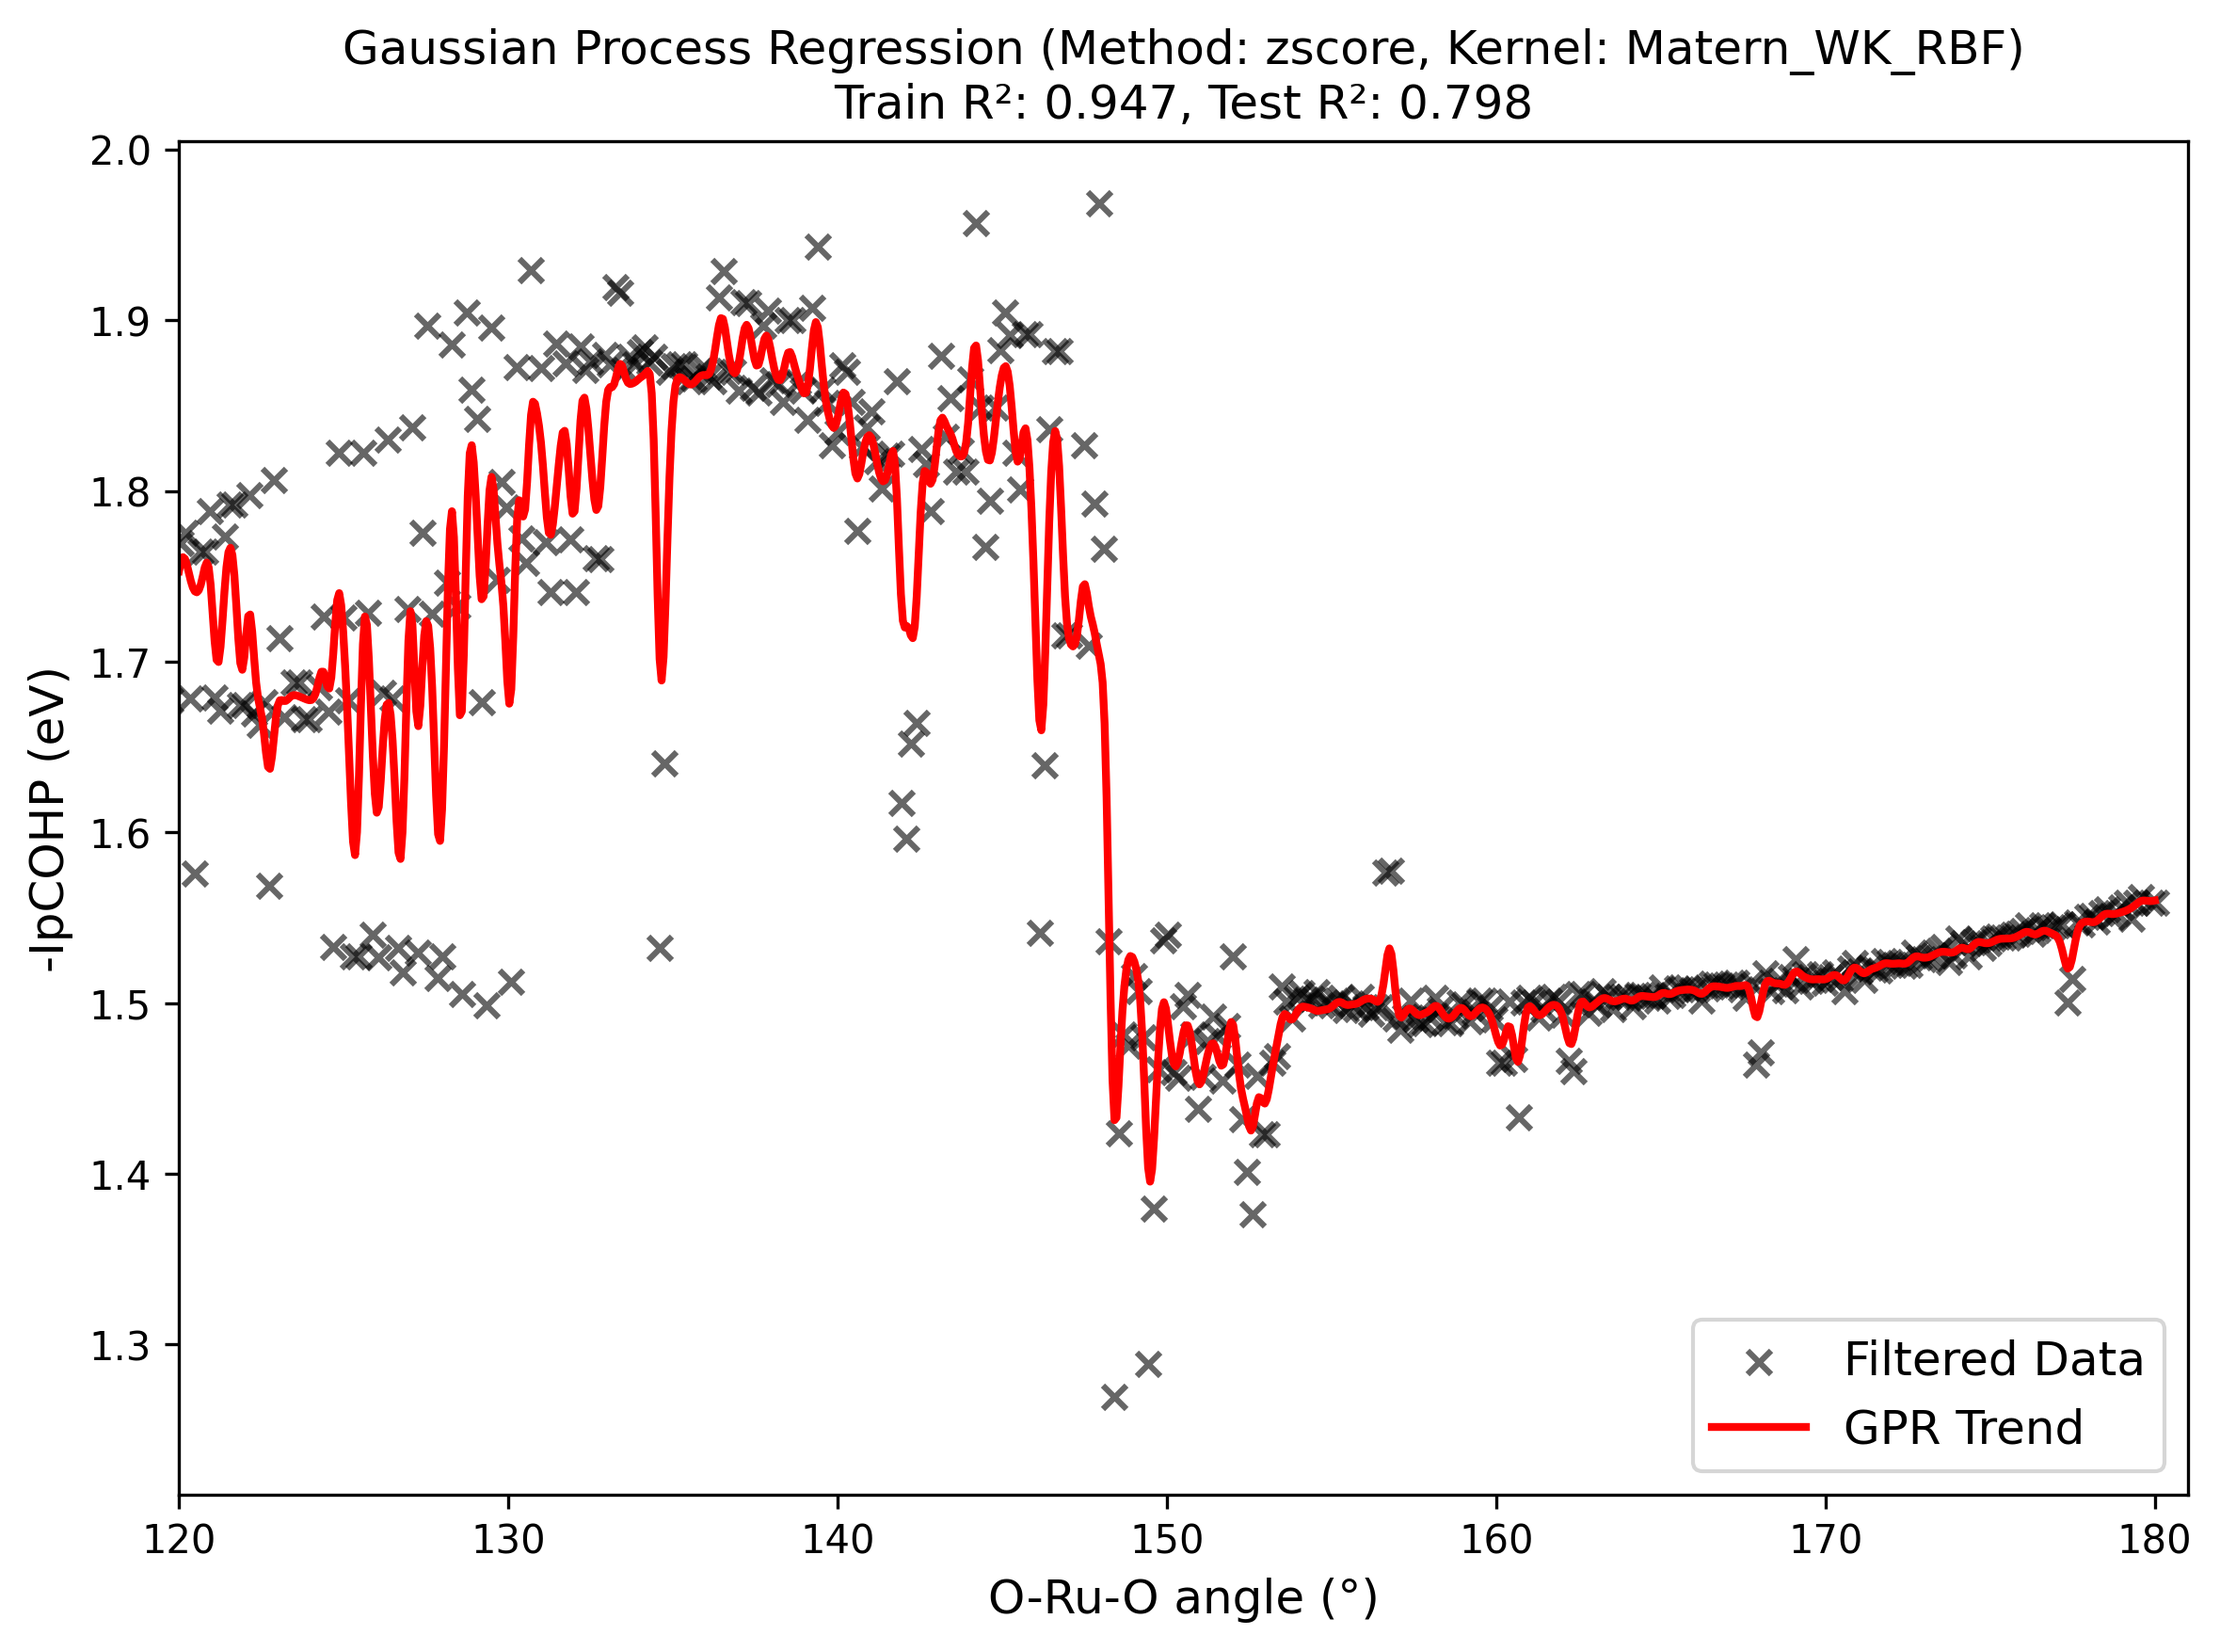
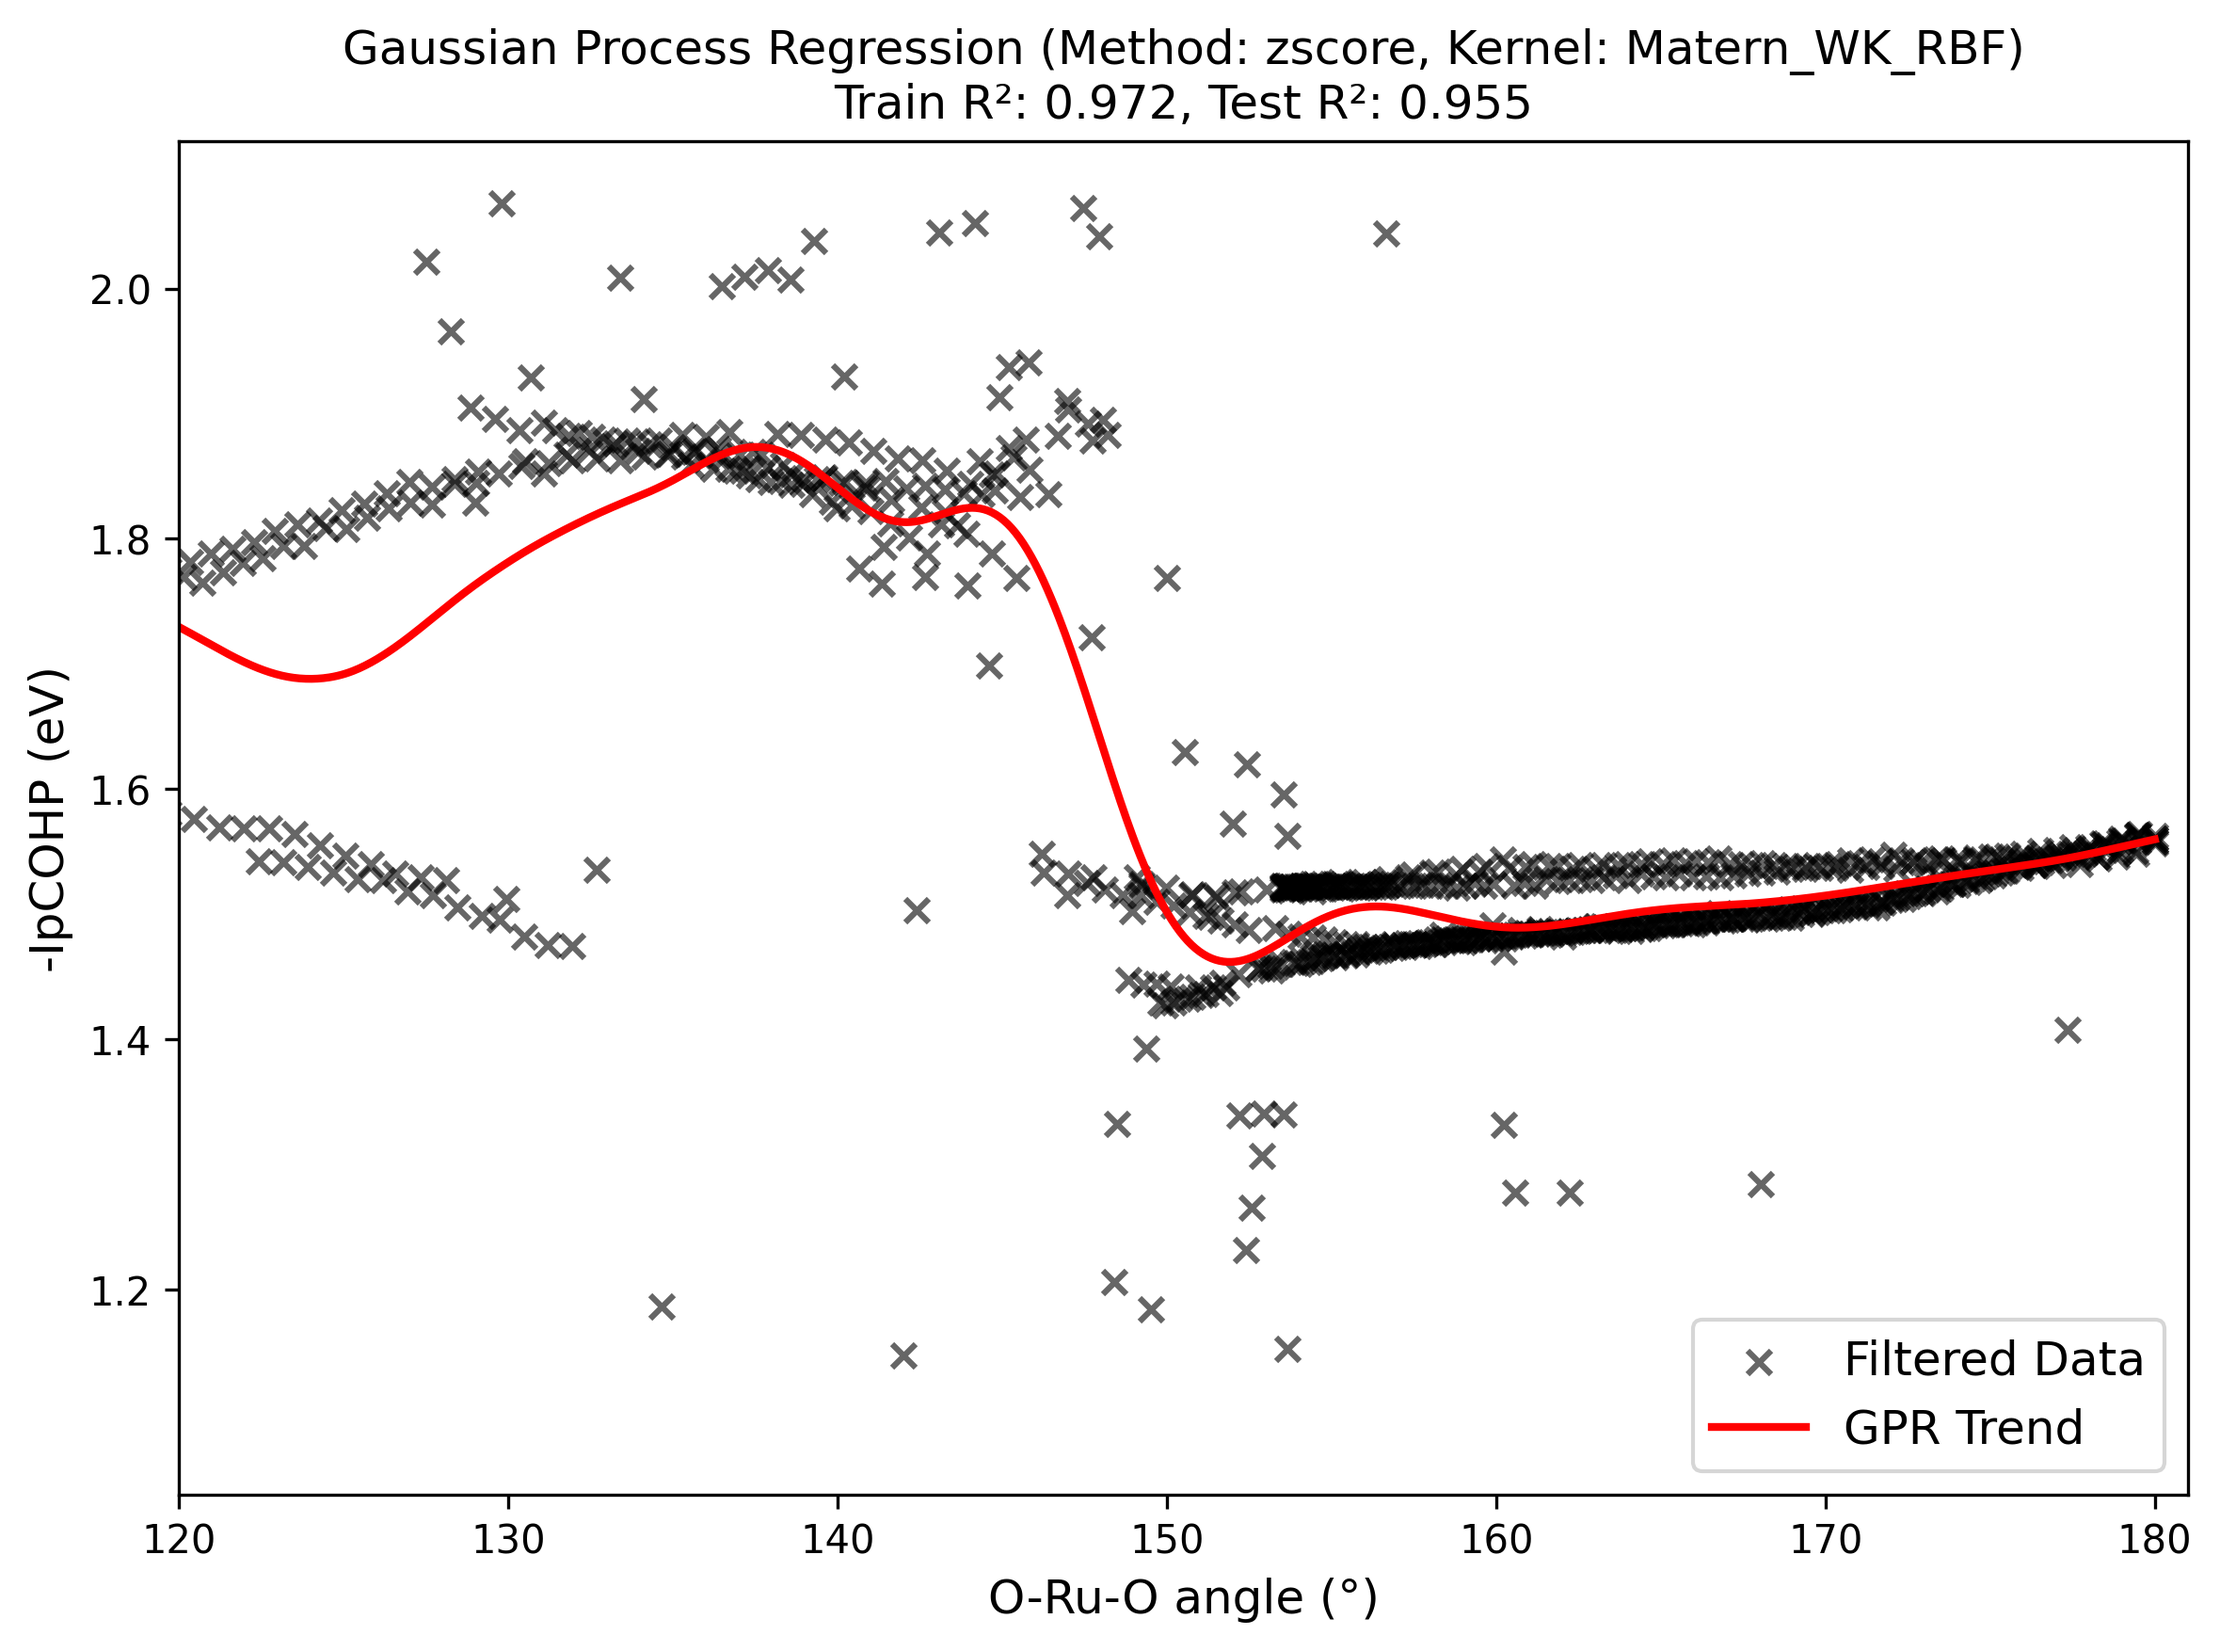
2

diff --git a/octachedral_gaussian/datafit_test/Sn/test.py b/octachedral_gaussian/datafit_test/Sn/test.py
@@ -198,6 +198,10 @@ print(f"最佳 AIC: {best_aic:.3f}, 最佳平均 R²: {best_r2:.3f}")
 # ==========================
 # 1. 使用最佳异常值处理
 X_filtered, y_filtered = remove_outliers(X, y, method=best_method)
+# 保存去除了异常值但未平滑的数据，用于最终绘图
+X_for_plot = X_filtered.copy()
+y_for_plot = y_filtered.copy()
+
 
 # --- ⭐ 2. 实现滑动窗口平滑 (新逻辑) ---
 if cfg.BINNING_ENABLED:
@@ -238,6 +242,14 @@ if cfg.BINNING_ENABLED:
     X_filtered = np.array(X_smoothed).reshape(-1, 1)
     y_filtered = np.array(y_smoothed).ravel()
     print(f"滑动窗口平滑完成。生成数据点: {len(y_filtered)} 个。")
+
+    # --- ⭐ 2.1 在平滑后再次进行异常值检测 (新步骤) ---
+    print("在平滑数据后再次进行异常值检测...")
+    points_before = len(y_filtered)
+    # 使用 z-score 方法移除平滑后的数据中的异常值
+    X_filtered, y_filtered = remove_outliers(X_filtered, y_filtered, method='zscore')
+    points_after = len(y_filtered)
+    print(f"移除了 {points_before - points_after} 个平滑后的异常点。剩余数据点: {points_after} 个。")
 # -----------------------------------------------
 
 # 3. 标准化
@@ -279,8 +291,8 @@ y_pred_original = scaler_y.inverse_transform(y_pred_scaled.reshape(-1, 1)).ravel
 plt.figure(figsize=cfg.FIG_SIZE)
 
 plt.scatter(
-    scaler_X.inverse_transform(X_scaled),
-    scaler_y.inverse_transform(y_scaled.reshape(-1, 1)),
+    X_for_plot,
+    y_for_plot,
     color='black',
     alpha=0.6,
     label='Filtered Data',
@@ -379,4 +391,3 @@ plt.legend(fontsize=cfg.FONT_SIZE_LEGEND)
 plt.tight_layout()
 save_plot("Figure_7_Residuals_Distribution")
 plt.show()
-

diff --git a/octachedral_gaussian/datafit_test/Mn/test.py b/octachedral_gaussian/datafit_test/Mn/test.py
@@ -198,6 +198,10 @@ print(f"最佳 AIC: {best_aic:.3f}, 最佳平均 R²: {best_r2:.3f}")
 # ==========================
 # 1. 使用最佳异常值处理
 X_filtered, y_filtered = remove_outliers(X, y, method=best_method)
+# 保存去除了异常值但未平滑的数据，用于最终绘图
+X_for_plot = X_filtered.copy()
+y_for_plot = y_filtered.copy()
+
 
 # --- ⭐ 2. 实现滑动窗口平滑 (新逻辑) ---
 if cfg.BINNING_ENABLED:
@@ -287,8 +291,8 @@ y_pred_original = scaler_y.inverse_transform(y_pred_scaled.reshape(-1, 1)).ravel
 plt.figure(figsize=cfg.FIG_SIZE)
 
 plt.scatter(
-    scaler_X.inverse_transform(X_scaled),
-    scaler_y.inverse_transform(y_scaled.reshape(-1, 1)),
+    X_for_plot,
+    y_for_plot,
     color='black',
     alpha=0.6,
     label='Filtered Data',

diff --git a/octachedral_gaussian/datafit_test/Ru/test.py b/octachedral_gaussian/datafit_test/Ru/test.py
@@ -198,6 +198,10 @@ print(f"最佳 AIC: {best_aic:.3f}, 最佳平均 R²: {best_r2:.3f}")
 # ==========================
 # 1. 使用最佳异常值处理
 X_filtered, y_filtered = remove_outliers(X, y, method=best_method)
+# 保存去除了异常值但未平滑的数据，用于最终绘图
+X_for_plot = X_filtered.copy()
+y_for_plot = y_filtered.copy()
+
 
 # --- ⭐ 2. 实现滑动窗口平滑 (新逻辑) ---
 if cfg.BINNING_ENABLED:
@@ -287,8 +291,8 @@ y_pred_original = scaler_y.inverse_transform(y_pred_scaled.reshape(-1, 1)).ravel
 plt.figure(figsize=cfg.FIG_SIZE)
 
 plt.scatter(
-    scaler_X.inverse_transform(X_scaled),
-    scaler_y.inverse_transform(y_scaled.reshape(-1, 1)),
+    X_for_plot,
+    y_for_plot,
     color='black',
     alpha=0.6,
     label='Filtered Data',

diff --git a/octachedral_gaussian/datafit_test/Mn/gpr_config.py b/octachedral_gaussian/datafit_test/Mn/gpr_config.py
@@ -34,8 +34,8 @@ FINAL_N_RESTARTS = 20
 
 # --- 6. 数据平滑配置 ---
 BINNING_ENABLED = True     # ⭐ 启用滑动窗口平滑
-WINDOW_WIDTH = 0.3         # 窗口的宽度 (例如 0.5 度)
-STEP_SIZE = 0.15           # 滑动窗口的步长 (例如 0.25 度，重叠 50%)
+WINDOW_WIDTH = 1         # 窗口的宽度 (例如 0.5 度)
+STEP_SIZE = 0.5           # 滑动窗口的步长 (例如 0.25 度，重叠 50%)
 
 # --- 4. 候选核函数定义 (优化后) ---
 from sklearn.gaussian_process.kernels import RBF, ConstantKernel as C, Matern, WhiteKernel

diff --git a/octachedral_gaussian/datafit_test/Ru/gpr_config.py b/octachedral_gaussian/datafit_test/Ru/gpr_config.py
@@ -34,8 +34,8 @@ FINAL_N_RESTARTS = 20
 
 # --- 6. 数据平滑配置 ---
 BINNING_ENABLED = True     # ⭐ 启用滑动窗口平滑
-WINDOW_WIDTH = 0.3         # 窗口的宽度 (例如 0.5 度)
-STEP_SIZE = 0.15           # 滑动窗口的步长 (例如 0.25 度，重叠 50%)
+WINDOW_WIDTH = 2         # 窗口的宽度 (例如 0.5 度)
+STEP_SIZE = 1           # 滑动窗口的步长 (例如 0.25 度，重叠 50%)
 
 # --- 4. 候选核函数定义 (优化后) ---
 from sklearn.gaussian_process.kernels import RBF, ConstantKernel as C, Matern, WhiteKernel
